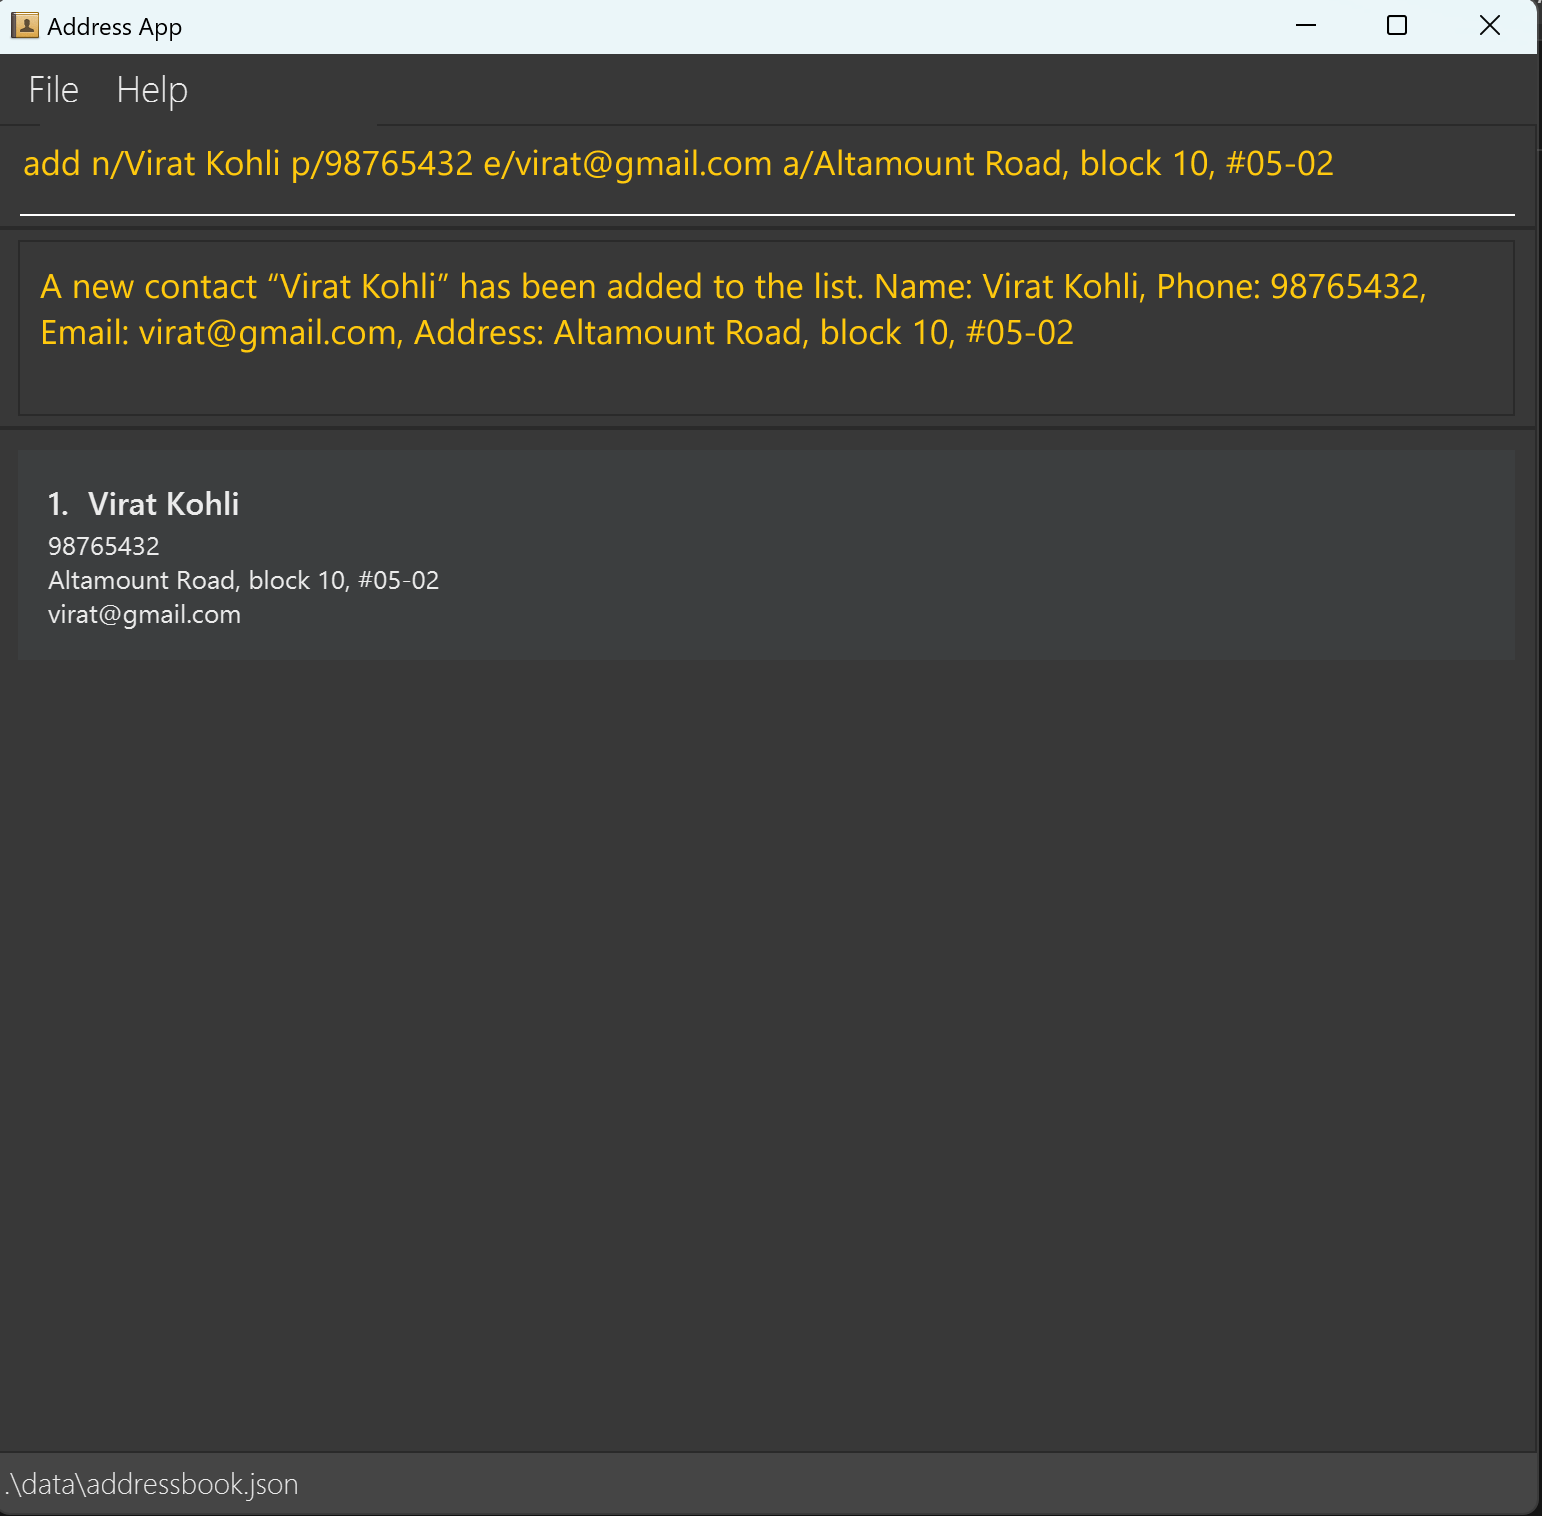
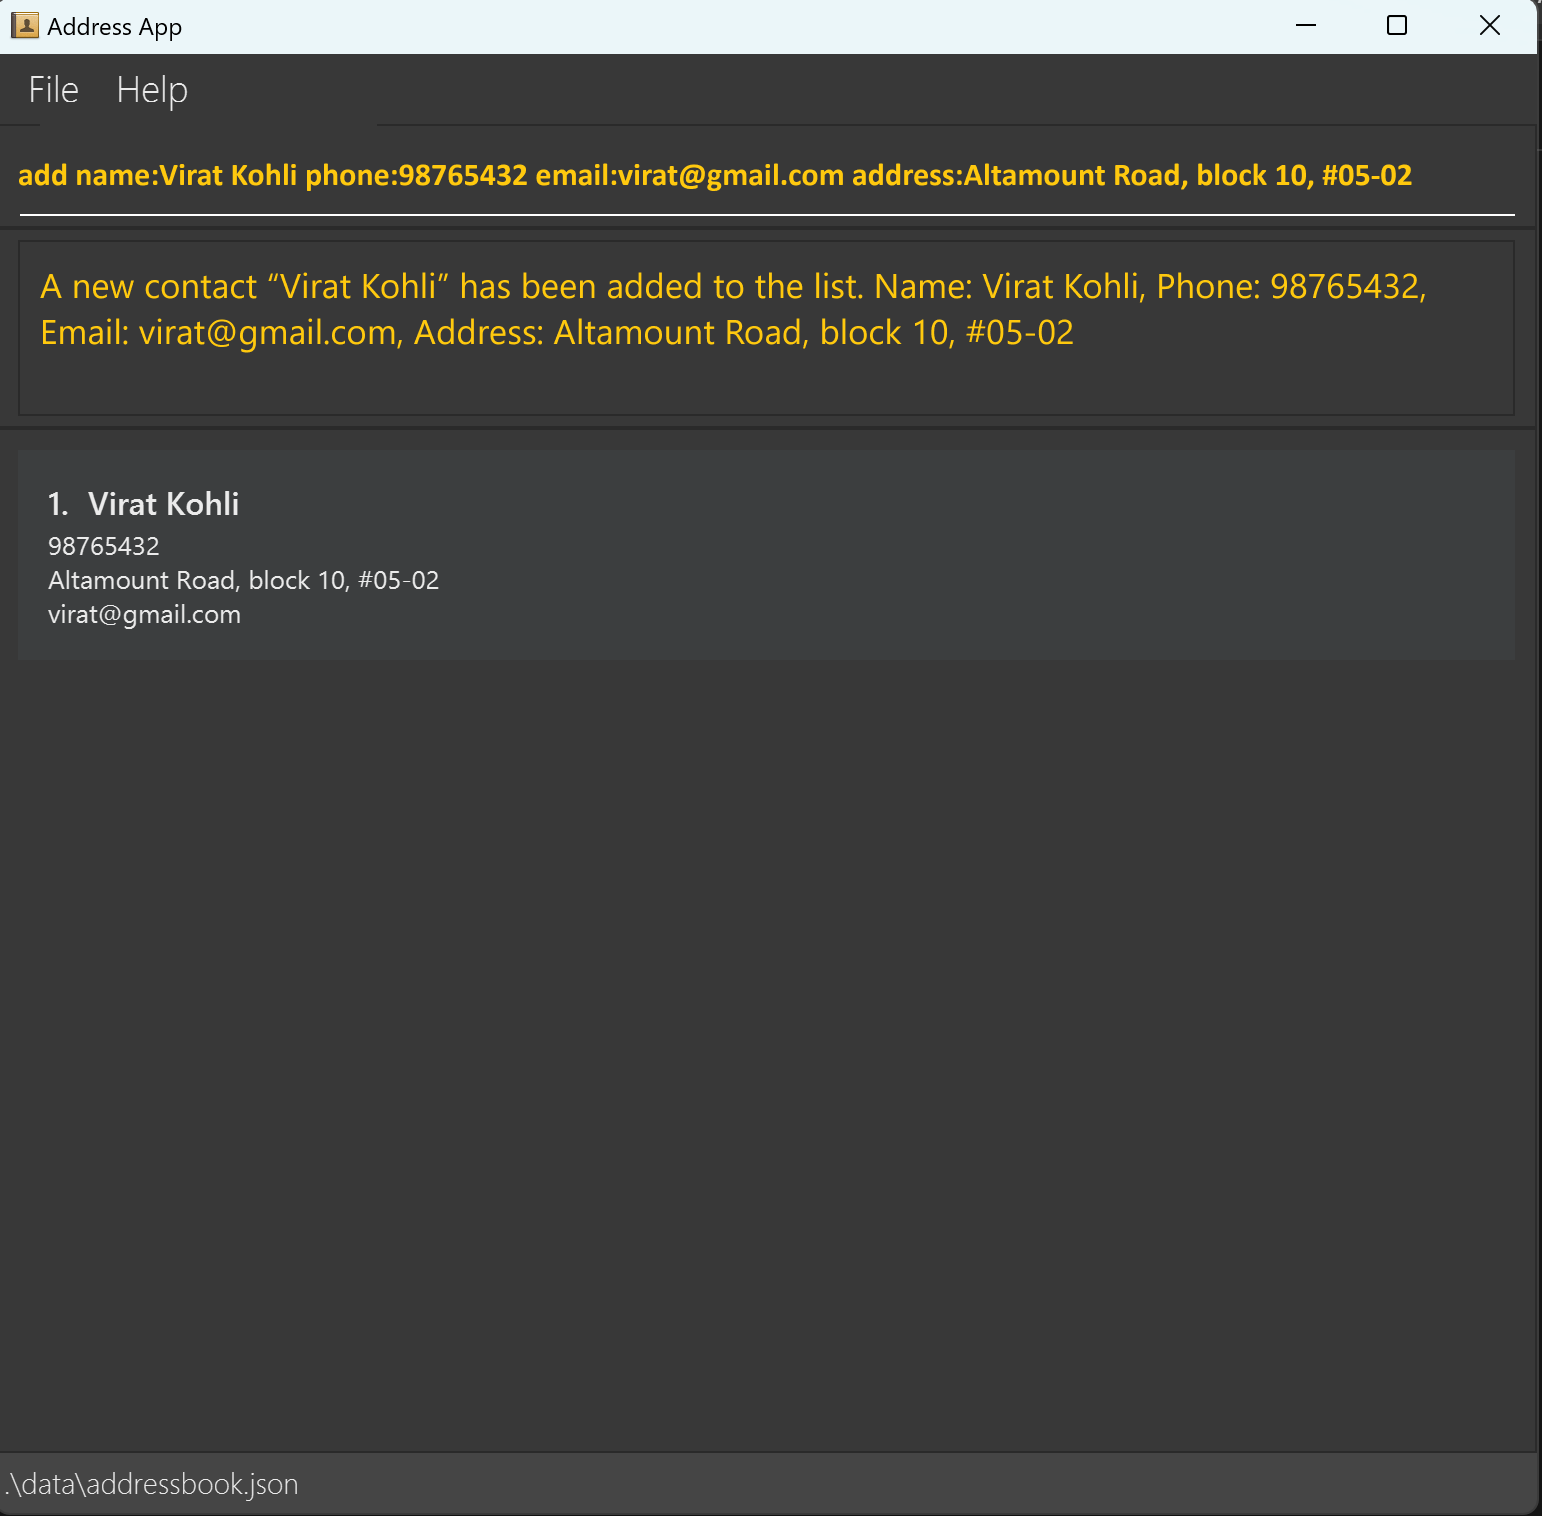
Change the documentation to fit the new prefix

Changed region(s): [[0.0, 0.093, 0.9339, 0.124]]

diff --git a/docs/UserGuide.md b/docs/UserGuide.md
@@ -14,7 +14,7 @@ OfficeHarbor (OH) is a **desktop app for managing the contacts of a tech firm's 
 
 1. Ensure you have Java `11` or above installed in your Computer.
 
-2. Download the latest `officeharbor.jar` from [here](https://github.com/AY2324S2-CS2103T-W13-2/tp/releases).
+2. Download the latest `officeharbor.jar` from [here](https://github.com/AY2324S2-CS2103T-W13-2/tphone:releases).
 
 3. Copy the file to the folder you want to use as the _home folder_ for your OH.
 
@@ -28,7 +28,7 @@ OfficeHarbor (OH) is a **desktop app for managing the contacts of a tech firm's 
 
    * `list` : Lists all contacts.
 
-   * `add n/John Doe p/98765432 e/johnd@example.com a/John street, block 123, #01-01` : Adds a contact named `John Doe` to OH.
+   * `add name:John Doe phone:98765432 email:johnd@example.com address:John street, block 123, #01-01` : Adds a contact named `John Doe` to OH.
 
    * `delete 3` : Deletes the 3rd contact shown in the current list.
 
@@ -47,10 +47,16 @@ OfficeHarbor (OH) is a **desktop app for managing the contacts of a tech firm's 
 **:information_source: Notes about the command format:**<br>
 
 * Words enclosed between diamond brackets `<>`, are the parameters to be supplied by the user.<br>
-  e.g. in `add n/<name>`, `<name>` is a parameter which can be used as `add n/John Doe`.
+  e.g. in `add name:<name>`, `<name>` is a parameter which can be used as `add name:John Doe`.
+
+* Space can be added between the prefix and the word.<br>
+  e.g. either `name: <name> phone: <phone number>` or `name:<name> phone:<phone number>` is acceptable.
+
+* In some commands like tag, `[tag/<tag>]...` means that you can have multiple optional prefixes at the end <br>
+  e.g. the command `tag 1 tag:friends tag:colleagues` would add 2 tags directly to the contact at index 1.
 
 * Parameters can be in any order for adding a contact.<br>
-  e.g. if the command specifies `n/<name> p/<phone number>`, `p/<phone number> n/<name>` is also acceptable.
+  e.g. if the command specifies `name:<name> phone:<phone number>`, `phone:<phone number> name:<name>` is also acceptable.
 
 * Extraneous parameters for commands that do not take in parameters (such as `help`, `list`, `exit` and `clear`) will be ignored.<br>
   e.g. if the command specifies `help 123`, it will be interpreted as `help`.
@@ -71,21 +77,21 @@ Format: `help`
 
 Adds a contact with the input details to OH.
 
-Format: `add n/<name> p/<phone number> e/<email address> a/<address>`
+Format: `add name:<name> phone:<phone number> email:<email address> address:<address>`
 
 <div markdown="span" class="alert alert-info">
 All components are necessary.
 </div>
 
 Examples:
-* `add n/John Doe p/98765432 e/johnd@example.com a/John street, block 123, #01-01`
-* `add n/Virat Kohli p/98765432 e/virat@gmail.com a/Altamount Road, block 10, #05-02`
+* `add name:John Doe phone:98765432 email:johnd@example.com address:John street, block 123, #01-01`
+* `add name:Virat Kohli phone:98765432 email:virat@gmail.com address:Altamount Road, block 10, #05-02`
 
 Output:
 The message “A new contact `name` has been added to the list. Name: `<name>`, Phone: `<phone number>`, Email: `<email>`, Address: `<address>`.” will be shown. 
 A new contact entry with the given user will be displayed in the list.
 
-![add](images/user-guide/add_mock_output.png)
+![add](images/user-guidemail:add_mock_output.png)
 
 ### Listing all persons : `list`
 
@@ -115,7 +121,7 @@ Output:
 The message "Contact `name` has been deleted. Name: `name`, Phone: `phone number`, Email: `email`, Address: `address`.” will be shown.
 The entry with the given id will disappear from the list.
 
-![delete](images/user-guide/delete_mock_output.png)
+![delete](images/user-guidemail:delete_mock_output.png)
 
 ### Clearing all entries : `clear`
 
@@ -134,7 +140,7 @@ Tags the specified contact with the input tag name.
 * The id refers to the index number shown in the displayed person list.
 * The id **must be a positive integer** 1, 2, 3, …
 
-Format: `tag <id> t/<tag> [t/tag]...`
+Format: `tag <id> tag:<tag> [tag:tag]...`
 
 Example:
 `tag 2 friends`
@@ -143,7 +149,7 @@ Output:
 The message "The following contact has been tagged with `<tag name>`: `contact info`.” will be shown, 
 where contact info is all the information of the contact.
 
-![tag](images/user-guide/tag_mock_output.png)
+![tag](images/user-guidemail:tag_mock_output.png)
 
 ### Deleting a tag : `untag`
 
@@ -153,14 +159,14 @@ Deletes the specified tag from the specified contact
 * The id refers to the index number shown in the displayed person list.
 * The id **must be a positive integer** 1, 2, 3, …
 
-Format: `untag <id> t/<tag> [t/tag]...`
+Format: `untag <id> tag:<tag> [tag:tag]...`
 
 Output:
 The message "The tag `<tag>` has been removed from contact: `contact info`." will be shown,
 where contact info is all the information of the contact. 
 The list entry of the user with <id> will not have the tag anymore.
 
-![delete-tag](images/user-guide/delete-tag_mock_output.png)
+![delete-tag](images/user-guidemail:delete-tag_mock_output.png)
 
 ### Undoing a command : `undo`
 
@@ -176,10 +182,10 @@ If no command has been run at all, an error message "No more commands to undo!" 
 Example of undoing a delete command.
 
 Contact after a delete command:
-![delete_operation](images/user-guide/delete_operation-undo-mock.png)
+![delete_operation](images/user-guidemail:delete_operation-undo-mock.png)
 
 Contact after the delete command is undone:
-![undo](images/user-guide/undo_mock_output.png)
+![undo](images/user-guidemail:undo_mock_output.png)
 
 ### Redoing a command : `redo`
 
@@ -193,7 +199,7 @@ The list entry of the user will return to the state before the latest undo comma
 If no undo command has been run at all, an error message "No more commands to redo!" will be shown instead.
 
 Example of redoing the previous undo command:
-![redo](images/user-guide/redo_mock_output.png)
+![redo](images/user-guidemail:redo_mock_output.png)
 
 ### Exiting the program : `exit`
 
@@ -207,7 +213,7 @@ OfficeHarbor data are saved in the hard disk automatically after any command tha
 
 ### Editing the data file
 
-OfficeHarbor data are saved automatically as a JSON file `[JAR file location]/data/officeharbor.json`. Advanced users are welcome to update data directly by editing that data file.
+OfficeHarbor data are saved automatically as a JSON file `[JAR file location]/dataddress:officeharbor.json`. Advanced users are welcome to update data directly by editing that data file.
 
 <div markdown="span" class="alert alert-warning">:exclamation: **Caution:**
 If your changes to the data file makes its format invalid, OfficeHarbor will discard all data and start with an empty data file at the next run. Hence, it is recommended to take a backup of the file before editing it.<br>
@@ -235,14 +241,14 @@ _Details coming soon ..._
 
 ## Command summary
 
-| Action         | Format, Examples                                                                                                                                       |
-|----------------|--------------------------------------------------------------------------------------------------------------------------------------------------------|
-| **Add**        | `add n/<name> p/<phone number> e/<email address> a/<address>` <br> e.g., `add n/James Ho p/22224444 e/jamesho@example.com a/123, Clementi Rd, 1234665` |
-| **Delete**     | `delete <id>`<br> e.g., `delete 3`                                                                                                                     |
-| **Clear**      | `clear`                                                                                                                                                |
-| **Tag**        | `tag <id> t/<tag> [t/tag]...`  <br> e.g., `tag 2 t/friends`                                                                                            |
-| **Delete Tag** | `untag <id> t/<tag> [t/tag]...` <br> e.g., `untag 2 t/friends`                                                                                         |
-| **List**       | `list`                                                                                                                                                 |
-| **Undo**       | `undo`                                                                                                                                                 |
-| **Redo**       | `redo`                                                                                                                                                 |
-| **Help**       | `help`                                                                                                                                                 |
+| Action         | Format, Examples                                                                                                                                                                         |
+|----------------|------------------------------------------------------------------------------------------------------------------------------------------------------------------------------------------|
+| **Add**        | `add name:<name> phone:<phone number> email:<email address> address:<address>` <br> e.g., `add name:James Ho phone:22224444 email:jamesho@example.com address:123, Clementi Rd, 1234665` |
+| **Delete**     | `delete <id>`<br> e.g., `delete 3`                                                                                                                                                       |
+| **Clear**      | `clear`                                                                                                                                                                                  |
+| **Tag**        | `tag <id> tag:<tag> [tag:tag]...`  <br> e.g., `tag 2 tag:friends`                                                                                                                        |
+| **Delete Tag** | `untag <id> tag:<tag> [tag:tag]...` <br> e.g., `untag 2 tag:friends`                                                                                                                     |
+| **List**       | `list`                                                                                                                                                                                   |
+| **Undo**       | `undo`                                                                                                                                                                                   |
+| **Redo**       | `redo`                                                                                                                                                                                   |
+| **Help**       | `help`                                                                                                                                                                                   |

diff --git a/docs/DeveloperGuide.md b/docs/DeveloperGuide.md
@@ -332,14 +332,15 @@ _{Explain here how the data archiving feature will be implemented}_
 
 Priorities: High (must have) - `* * *`, Medium (nice to have) - `* *`, Low (unlikely to have) - `*`
 
-| Priority | As a …                                    | I want to …                          | So that I can…                            |
-|----------|--------------------------------------------|---------------------------------------|--------------------------------------------|
-| `* * *`  | secretary                                  | view the added contact list           | I can see the details of the added contact |
-| `* * *`  | secretary                                  | add contacts to a list                | I can record contact details               |
-| `* * *`  | secretary                                  | remove contacts from a list           | I can clean up old/unused records          |
-| `* *`    | secretary                                  | tag individual contacts               | I can organize the contact based on tags   |
-| `* *`    | secretary                                  | delete a tag of an individual contact | the tag only is for the necessary users    |
-
+| Priority | As a …   | I want to …                          | So that I can…                                        |
+|----------|-----------|---------------------------------------|--------------------------------------------------------|
+| `* * *`  | secretary | view the added contact list           | see the details of the added contact                   |
+| `* * *`  | secretary | add contacts to a list                | record contact details                                 |
+| `* * *`  | secretary | remove contacts from a list           | clean up old/unused records                            |
+| `* *`    | secretary | tag individual contacts               | organize the contact based on tags                     |
+| `* *`    | secretary | delete a tag of an individual contact | make sure that the tag only is for the necessary users |
+| `*`      | user      | undo my command                       | save time on undoing the effects of a wrong command    |
+| `*`      | user      | redo my undo                          | save time on undoing the effects of a wrong undo       |
 *{More to be added}*
 
 ### Use cases
